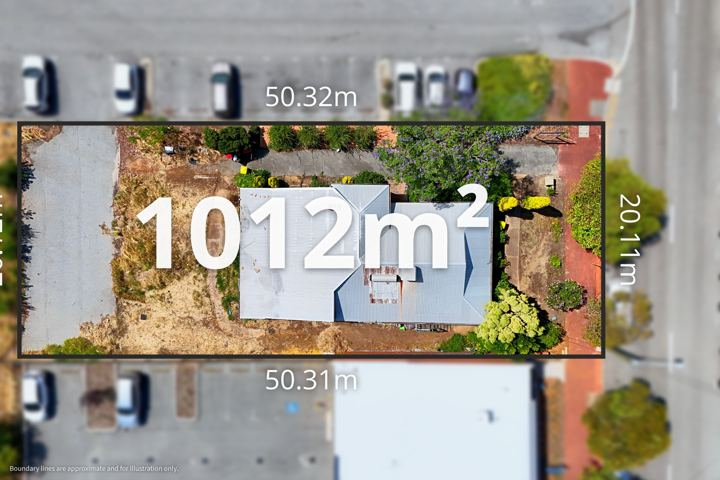
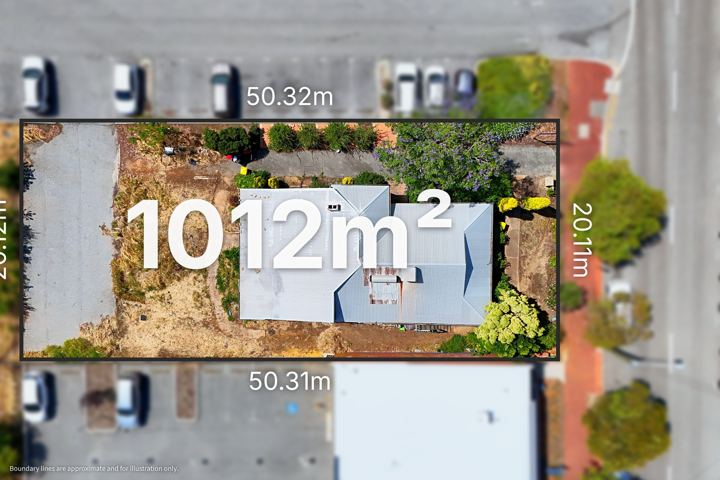
43 William St: boundary redrawn on 0107 (front on footpath edge, rear driveway included)
Claude-Session: https://claude.ai/code/session_01A5qGg2LnJXxgSHoMQFvEEG

Changed region(s): [[0.0, 0.1562, 0.8861, 0.8125], [0.55, 0.1562, 0.5806, 0.1875], [0.0306, 0.8438, 0.0611, 0.875]]

diff --git a/aerials/17-nov-2026/index.html b/aerials/17-nov-2026/index.html
@@ -5,4 +5,4 @@ body{margin:0;background:var(--bg);color:var(--fg);font:15px/1.45 system-ui,-app
 header,section{max-width:1400px;margin:auto;padding:18px 16px}h1{font-size:20px;margin:0}h2{font-size:17px;margin:0}header p,section p{color:var(--mut);margin:4px 0 0}
 .ed{margin-left:10px;color:var(--acc);font-weight:600;text-decoration:none}a{color:var(--acc)}
 .chk{margin-top:10px}.chk summary{cursor:pointer;color:var(--mut);font-weight:600}.chk iframe{width:100%;height:420px;border:0;border-radius:6px;margin-top:6px;background:#111}.g{display:grid;grid-template-columns:repeat(auto-fill,minmax(280px,1fr));gap:8px;margin-top:10px}.g img{width:100%;display:block;border-radius:4px}</style></head>
-<body><header><h1>Drone edits — Tue 17 Nov 2026</h1><p>Tap a photo for full size. <b>Edit</b> opens the job in the <a href="/pins/">editor</a> with all its pins and settings.</p></header><section><h2>SEND TO EDITOR — no lot boundary (Mac offline, no cadastre/satellite); hazy hills/horizon after sky swap on 0218/0220/0227/0229 (tower ghosting removed); both top-downs over-saturated and the house is off-centre — please re-edit sky/colour · 34 Croyden Rd, Roleystone WA 6111</h2><p>Jayden Cooke · Rodway · 13 photos (top-downs first) <a class="ed" href="/pins/?open=17-nov-2026/34_croyden_rd">Edit</a><a class="ed" href="/lots/?img=/aerials/17-nov-2026/34_croyden_rd/src/DJI_20261117135524_0236_D.jpg&street=Croyden%20Road" target="_blank">Lots</a><a class="ed" href="34_croyden_rd/check.html" target="_blank">Check map</a></p><div class="g"><a href="34_croyden_rd/DJI_20261117135524_0236_D.jpg?v=1794930465" target="_blank"><img loading="lazy" src="34_croyden_rd/t/DJI_20261117135524_0236_D.jpg?v=1794930465" alt=""></a><a href="34_croyden_rd/DJI_20261117135538_0237_D_r180_sq.jpg?v=1794930465" target="_blank"><img loading="lazy" src="34_croyden_rd/t/DJI_20261117135538_0237_D_r180_sq.jpg?v=1794930465" alt=""></a><a href="34_croyden_rd/DJI_20261117134904_0218_D.jpg?v=1794930465" target="_blank"><img loading="lazy" src="34_croyden_rd/t/DJI_20261117134904_0218_D.jpg?v=1794930465" alt=""></a><a href="34_croyden_rd/DJI_20261117135013_0220_D.jpg?v=1794930465" target="_blank"><img loading="lazy" src="34_croyden_rd/t/DJI_20261117135013_0220_D.jpg?v=1794930465" alt=""></a><a href="34_croyden_rd/DJI_20261117135036_0221_D.jpg?v=1794930465" target="_blank"><img loading="lazy" src="34_croyden_rd/t/DJI_20261117135036_0221_D.jpg?v=1794930465" alt=""></a><a href="34_croyden_rd/DJI_20261117135113_0223_D.jpg?v=1794930465" target="_blank"><img loading="lazy" src="34_croyden_rd/t/DJI_20261117135113_0223_D.jpg?v=1794930465" alt=""></a><a href="34_croyden_rd/DJI_20261117135138_0224_D.jpg?v=1794930465" target="_blank"><img loading="lazy" src="34_croyden_rd/t/DJI_20261117135138_0224_D.jpg?v=1794930465" alt=""></a><a href="34_croyden_rd/DJI_20261117135159_0225_D.jpg?v=1794930465" target="_blank"><img loading="lazy" src="34_croyden_rd/t/DJI_20261117135159_0225_D.jpg?v=1794930465" alt=""></a><a href="34_croyden_rd/DJI_20261117135227_0227_D.jpg?v=1794930465" target="_blank"><img loading="lazy" src="34_croyden_rd/t/DJI_20261117135227_0227_D.jpg?v=1794930465" alt=""></a><a href="34_croyden_rd/DJI_20261117135326_0229_D.jpg?v=1794930465" target="_blank"><img loading="lazy" src="34_croyden_rd/t/DJI_20261117135326_0229_D.jpg?v=1794930465" alt=""></a><a href="34_croyden_rd/DJI_20261117143956_0239_D.jpg?v=1794930465" target="_blank"><img loading="lazy" src="34_croyden_rd/t/DJI_20261117143956_0239_D.jpg?v=1794930465" alt=""></a><a href="34_croyden_rd/DJI_20261117144039_0240_D.jpg?v=1794930465" target="_blank"><img loading="lazy" src="34_croyden_rd/t/DJI_20261117144039_0240_D.jpg?v=1794930465" alt=""></a><a href="34_croyden_rd/DJI_20261117144046_0241_D.jpg?v=1794930465" target="_blank"><img loading="lazy" src="34_croyden_rd/t/DJI_20261117144046_0241_D.jpg?v=1794930465" alt=""></a></div><details class="chk" open><summary>Quick check — boundary + 9 pinned places</summary><iframe loading="lazy" src="34_croyden_rd/check.html?v=1794930467" title="Boundary and places check"></iframe></details></section><section><h2>SEND TO EDITOR — pale hard-edged band of old sky above the horizon on 0258/0259/0260 after the sky swap; no lot boundary (grouped dwelling, Mac offline) — please re-do the sky on those frames · 374 Light St, Dianella WA 6059</h2><p>Lucy Deng · Ausvision Realty · 11 photos (top-downs first) <a class="ed" href="/pins/?open=17-nov-2026/374_light_st">Edit</a><a class="ed" href="/lots/?img=/aerials/17-nov-2026/374_light_st/src/DJI_20261117160634_0269_D_r180.jpg&street=Light%20Street" target="_blank">Lots</a><a class="ed" href="374_light_st/check.html" target="_blank">Check map</a></p><div class="g"><a href="374_light_st/DJI_20261117160634_0269_D_r180.jpg?v=1794930470" target="_blank"><img loading="lazy" src="374_light_st/t/DJI_20261117160634_0269_D_r180.jpg?v=1794930470" alt=""></a><a href="374_light_st/DJI_20261117160607_0267_D_sq.jpg?v=1794930470" target="_blank"><img loading="lazy" src="374_light_st/t/DJI_20261117160607_0267_D_sq.jpg?v=1794930470" alt=""></a><a href="374_light_st/DJI_20261117160019_0257_D.jpg?v=1794930470" target="_blank"><img loading="lazy" src="374_light_st/t/DJI_20261117160019_0257_D.jpg?v=1794930470" alt=""></a><a href="374_light_st/DJI_20261117160038_0258_D.jpg?v=1794930470" target="_blank"><img loading="lazy" src="374_light_st/t/DJI_20261117160038_0258_D.jpg?v=1794930470" alt=""></a><a href="374_light_st/DJI_20261117160056_0259_D.jpg?v=1794930470" target="_blank"><img loading="lazy" src="374_light_st/t/DJI_20261117160056_0259_D.jpg?v=1794930470" alt=""></a><a href="374_light_st/DJI_20261117160119_0260_D.jpg?v=1794930470" target="_blank"><img loading="lazy" src="374_light_st/t/DJI_20261117160119_0260_D.jpg?v=1794930470" alt=""></a><a href="374_light_st/DJI_20261117160147_0261_D.jpg?v=1794930470" target="_blank"><img loading="lazy" src="374_light_st/t/DJI_20261117160147_0261_D.jpg?v=1794930470" alt=""></a><a href="374_light_st/DJI_20261117160253_0263_D.jpg?v=1794930470" target="_blank"><img loading="lazy" src="374_light_st/t/DJI_20261117160253_0263_D.jpg?v=1794930470" alt=""></a><a href="374_light_st/DJI_20261117160402_0264_D.jpg?v=1794930470" target="_blank"><img loading="lazy" src="374_light_st/t/DJI_20261117160402_0264_D.jpg?v=1794930470" alt=""></a><a href="374_light_st/DJI_20261117160425_0265_D.jpg?v=1794930470" target="_blank"><img loading="lazy" src="374_light_st/t/DJI_20261117160425_0265_D.jpg?v=1794930470" alt=""></a><a href="374_light_st/DJI_20261117160443_0266_D.jpg?v=1794930470" target="_blank"><img loading="lazy" src="374_light_st/t/DJI_20261117160443_0266_D.jpg?v=1794930470" alt=""></a></div><details class="chk" open><summary>Quick check — boundary + 17 pinned places</summary><iframe loading="lazy" src="374_light_st/check.html?v=1794930472" title="Boundary and places check"></iframe></details></section><section><h2>SEND TO EDITOR — white halo/glow strip along the ridge line on 0114/0115 (faint haze 0108/0111/0112) after the sky swap; house is out of shot on 0110 and 0114 (shooter framing) — please re-do the sky and check those frames · 43 William St, Armadale WA 6112</h2><p>Jayden Cooke · Rodway · 10 photos (top-downs first) <a class="ed" href="/pins/?open=17-nov-2026/43_william_st">Edit</a><a class="ed" href="/lots/?img=/aerials/17-nov-2026/43_william_st/src/dji_fly_20261117_102652_0102_1794923605590_photo_sq.JPG&street=William%20Street" target="_blank">Lots</a><a class="ed" href="43_william_st/check.html" target="_blank">Check map</a></p><div class="g"><a href="43_william_st/dji_fly_20261117_102652_0102_1794923605590_photo_sq.jpg?v=1794950666" target="_blank"><img loading="lazy" src="43_william_st/t/dji_fly_20261117_102652_0102_1794923605590_photo_sq.jpg?v=1794950666" alt=""></a><a href="43_william_st/dji_fly_20261117_102734_0107_1794923598787_photo_sq.jpg?v=1794950666" target="_blank"><img loading="lazy" src="43_william_st/t/dji_fly_20261117_102734_0107_1794923598787_photo_sq.jpg?v=1794950666" alt=""></a><a href="43_william_st/dji_fly_20261117_102804_0108_1794923597373_photo.jpg?v=1794950666" target="_blank"><img loading="lazy" src="43_william_st/t/dji_fly_20261117_102804_0108_1794923597373_photo.jpg?v=1794950666" alt=""></a><a href="43_william_st/dji_fly_20261117_102836_0109_1794923595154_photo.jpg?v=1794950666" target="_blank"><img loading="lazy" src="43_william_st/t/dji_fly_20261117_102836_0109_1794923595154_photo.jpg?v=1794950666" alt=""></a><a href="43_william_st/dji_fly_20261117_102942_0110_1794923593774_photo.jpg?v=1794950666" target="_blank"><img loading="lazy" src="43_william_st/t/dji_fly_20261117_102942_0110_1794923593774_photo.jpg?v=1794950666" alt=""></a><a href="43_william_st/dji_fly_20261117_103016_0111_1794923592394_photo.jpg?v=1794950666" target="_blank"><img loading="lazy" src="43_william_st/t/dji_fly_20261117_103016_0111_1794923592394_photo.jpg?v=1794950666" alt=""></a><a href="43_william_st/dji_fly_20261117_103050_0112_1794923591070_photo.jpg?v=1794950666" target="_blank"><img loading="lazy" src="43_william_st/t/dji_fly_20261117_103050_0112_1794923591070_photo.jpg?v=1794950666" alt=""></a><a href="43_william_st/dji_fly_20261117_103102_0113_1794923589788_photo.jpg?v=1794950666" target="_blank"><img loading="lazy" src="43_william_st/t/dji_fly_20261117_103102_0113_1794923589788_photo.jpg?v=1794950666" alt=""></a><a href="43_william_st/dji_fly_20261117_103116_0114_1794923588534_photo.jpg?v=1794950666" target="_blank"><img loading="lazy" src="43_william_st/t/dji_fly_20261117_103116_0114_1794923588534_photo.jpg?v=1794950666" alt=""></a><a href="43_william_st/dji_fly_20261117_103130_0115_1794923587236_photo.jpg?v=1794950666" target="_blank"><img loading="lazy" src="43_william_st/t/dji_fly_20261117_103130_0115_1794923587236_photo.jpg?v=1794950666" alt=""></a></div><details class="chk" open><summary>Quick check — boundary + 12 pinned places</summary><iframe loading="lazy" src="43_william_st/check.html?v=1794950668" title="Boundary and places check"></iframe></details></section><section><h2>SEND TO EDITOR — sky swap left ghost blocks of old sky above the horizon on 0125/0126/0127 and halos/ghosting around the CBD towers on 0118/0119/0128, grey haze over the hills on 0123/0124 — please replace the sky on every oblique · 28/76 Newcastle St, West Perth WA 6005</h2><p>Shane Garrett · Belle Property · 13 photos (top-downs first) <a class="ed" href="/pins/?open=17-nov-2026/28_76_newcastle_st">Edit</a><a class="ed" href="/lots/?img=/aerials/17-nov-2026/28_76_newcastle_st/src/dji_fly_20261117_123400_0117_1794923584798_photo_r180_sq.JPG&street=Newcastle%20Street" target="_blank">Lots</a><a class="ed" href="28_76_newcastle_st/check.html" target="_blank">Check map</a></p><div class="g"><a href="28_76_newcastle_st/dji_fly_20261117_123400_0117_1794923584798_photo_r180_sq.jpg?v=1794950677" target="_blank"><img loading="lazy" src="28_76_newcastle_st/t/dji_fly_20261117_123400_0117_1794923584798_photo_r180_sq.jpg?v=1794950677" alt=""></a><a href="28_76_newcastle_st/dji_fly_20261117_123356_0116_1794923585995_photo.jpg?v=1794950678" target="_blank"><img loading="lazy" src="28_76_newcastle_st/t/dji_fly_20261117_123356_0116_1794923585995_photo.jpg?v=1794950678" alt=""></a><a href="28_76_newcastle_st/dji_fly_20261117_123438_0118_1794923583683_photo.jpg?v=1794950678" target="_blank"><img loading="lazy" src="28_76_newcastle_st/t/dji_fly_20261117_123438_0118_1794923583683_photo.jpg?v=1794950678" alt=""></a><a href="28_76_newcastle_st/dji_fly_20261117_123500_0119_1794923582541_photo.jpg?v=1794950678" target="_blank"><img loading="lazy" src="28_76_newcastle_st/t/dji_fly_20261117_123500_0119_1794923582541_photo.jpg?v=1794950678" alt=""></a><a href="28_76_newcastle_st/dji_fly_20261117_123532_0120_1794923581349_photo.jpg?v=1794950678" target="_blank"><img loading="lazy" src="28_76_newcastle_st/t/dji_fly_20261117_123532_0120_1794923581349_photo.jpg?v=1794950678" alt=""></a><a href="28_76_newcastle_st/dji_fly_20261117_123548_0121_1794923580121_photo.jpg?v=1794950678" target="_blank"><img loading="lazy" src="28_76_newcastle_st/t/dji_fly_20261117_123548_0121_1794923580121_photo.jpg?v=1794950678" alt=""></a><a href="28_76_newcastle_st/dji_fly_20261117_123610_0122_1794923578874_photo.jpg?v=1794950678" target="_blank"><img loading="lazy" src="28_76_newcastle_st/t/dji_fly_20261117_123610_0122_1794923578874_photo.jpg?v=1794950678" alt=""></a><a href="28_76_newcastle_st/dji_fly_20261117_123630_0123_1794923577572_photo.jpg?v=1794950678" target="_blank"><img loading="lazy" src="28_76_newcastle_st/t/dji_fly_20261117_123630_0123_1794923577572_photo.jpg?v=1794950678" alt=""></a><a href="28_76_newcastle_st/dji_fly_20261117_123646_0124_1794923576272_photo.jpg?v=1794950678" target="_blank"><img loading="lazy" src="28_76_newcastle_st/t/dji_fly_20261117_123646_0124_1794923576272_photo.jpg?v=1794950678" alt=""></a><a href="28_76_newcastle_st/dji_fly_20261117_123702_0125_1794923575020_photo.jpg?v=1794950678" target="_blank"><img loading="lazy" src="28_76_newcastle_st/t/dji_fly_20261117_123702_0125_1794923575020_photo.jpg?v=1794950678" alt=""></a><a href="28_76_newcastle_st/dji_fly_20261117_123724_0126_1794923573753_photo.jpg?v=1794950678" target="_blank"><img loading="lazy" src="28_76_newcastle_st/t/dji_fly_20261117_123724_0126_1794923573753_photo.jpg?v=1794950678" alt=""></a><a href="28_76_newcastle_st/dji_fly_20261117_123754_0127_1794923572402_photo.jpg?v=1794950678" target="_blank"><img loading="lazy" src="28_76_newcastle_st/t/dji_fly_20261117_123754_0127_1794923572402_photo.jpg?v=1794950678" alt=""></a><a href="28_76_newcastle_st/dji_fly_20261117_123806_0128_1794923571185_photo.jpg?v=1794950678" target="_blank"><img loading="lazy" src="28_76_newcastle_st/t/dji_fly_20261117_123806_0128_1794923571185_photo.jpg?v=1794950678" alt=""></a></div><details class="chk" open><summary>Quick check — boundary + 8 pinned places</summary><iframe loading="lazy" src="28_76_newcastle_st/check.html?v=1794950681" title="Boundary and places check"></iframe></details></section><section><h2>SEND TO EDITOR — CBD tower tops ghosted after the sky swap on 0135/0136, faint halo 0131 and haze 0133/0134 — please re-do the sky on the obliques · 79/1178 Hay St, West Perth WA 6005</h2><p>Megan Topham · Belle Property · 12 photos (top-downs first) <a class="ed" href="/pins/?open=17-nov-2026/79_1178_hay_st">Edit</a><a class="ed" href="/lots/?img=/aerials/17-nov-2026/79_1178_hay_st/src/dji_fly_20261117_160212_0129_1794923569992_photo_r270.JPG&street=Hay%20Street" target="_blank">Lots</a><a class="ed" href="79_1178_hay_st/check.html" target="_blank">Check map</a></p><div class="g"><a href="79_1178_hay_st/dji_fly_20261117_160212_0129_1794923569992_photo_r270.jpg?v=1794950688" target="_blank"><img loading="lazy" src="79_1178_hay_st/t/dji_fly_20261117_160212_0129_1794923569992_photo_r270.jpg?v=1794950688" alt=""></a><a href="79_1178_hay_st/dji_fly_20261117_160212_0129_1794923569992_photo.jpg?v=1794950688" target="_blank"><img loading="lazy" src="79_1178_hay_st/t/dji_fly_20261117_160212_0129_1794923569992_photo.jpg?v=1794950688" alt=""></a><a href="79_1178_hay_st/dji_fly_20261117_160252_0130_1794923568799_photo.jpg?v=1794950688" target="_blank"><img loading="lazy" src="79_1178_hay_st/t/dji_fly_20261117_160252_0130_1794923568799_photo.jpg?v=1794950688" alt=""></a><a href="79_1178_hay_st/dji_fly_20261117_160320_0131_1794923567548_photo.jpg?v=1794950688" target="_blank"><img loading="lazy" src="79_1178_hay_st/t/dji_fly_20261117_160320_0131_1794923567548_photo.jpg?v=1794950688" alt=""></a><a href="79_1178_hay_st/dji_fly_20261117_160336_0132_1794923565379_photo.jpg?v=1794950688" target="_blank"><img loading="lazy" src="79_1178_hay_st/t/dji_fly_20261117_160336_0132_1794923565379_photo.jpg?v=1794950688" alt=""></a><a href="79_1178_hay_st/dji_fly_20261117_160354_0133_1794923564099_photo.jpg?v=1794950688" target="_blank"><img loading="lazy" src="79_1178_hay_st/t/dji_fly_20261117_160354_0133_1794923564099_photo.jpg?v=1794950688" alt=""></a><a href="79_1178_hay_st/dji_fly_20261117_160406_0134_1794923562823_photo.jpg?v=1794950688" target="_blank"><img loading="lazy" src="79_1178_hay_st/t/dji_fly_20261117_160406_0134_1794923562823_photo.jpg?v=1794950688" alt=""></a><a href="79_1178_hay_st/dji_fly_20261117_160428_0135_1794923561548_photo.jpg?v=1794950688" target="_blank"><img loading="lazy" src="79_1178_hay_st/t/dji_fly_20261117_160428_0135_1794923561548_photo.jpg?v=1794950688" alt=""></a><a href="79_1178_hay_st/dji_fly_20261117_160446_0136_1794923560286_photo.jpg?v=1794950688" target="_blank"><img loading="lazy" src="79_1178_hay_st/t/dji_fly_20261117_160446_0136_1794923560286_photo.jpg?v=1794950688" alt=""></a><a href="79_1178_hay_st/dji_fly_20261117_160512_0137_1794923559042_photo.jpg?v=1794950688" target="_blank"><img loading="lazy" src="79_1178_hay_st/t/dji_fly_20261117_160512_0137_1794923559042_photo.jpg?v=1794950688" alt=""></a><a href="79_1178_hay_st/dji_fly_20261117_160530_0138_1794923557769_photo.jpg?v=1794950688" target="_blank"><img loading="lazy" src="79_1178_hay_st/t/dji_fly_20261117_160530_0138_1794923557769_photo.jpg?v=1794950688" alt=""></a><a href="79_1178_hay_st/dji_fly_20261117_160548_0139_1794923556478_photo.jpg?v=1794950688" target="_blank"><img loading="lazy" src="79_1178_hay_st/t/dji_fly_20261117_160548_0139_1794923556478_photo.jpg?v=1794950688" alt=""></a></div><details class="chk" open><summary>Quick check — boundary + 10 pinned places</summary><iframe loading="lazy" src="79_1178_hay_st/check.html?v=1794950691" title="Boundary and places check"></iframe></details></section><script src="../dl.js"></script></body></html>
+<body><header><h1>Drone edits — Tue 17 Nov 2026</h1><p>Tap a photo for full size. <b>Edit</b> opens the job in the <a href="/pins/">editor</a> with all its pins and settings.</p></header><section><h2>SEND TO EDITOR — no lot boundary (Mac offline, no cadastre/satellite); hazy hills/horizon after sky swap on 0218/0220/0227/0229 (tower ghosting removed); both top-downs over-saturated and the house is off-centre — please re-edit sky/colour · 34 Croyden Rd, Roleystone WA 6111</h2><p>Jayden Cooke · Rodway · 13 photos (top-downs first) <a class="ed" href="/pins/?open=17-nov-2026/34_croyden_rd">Edit</a><a class="ed" href="/lots/?img=/aerials/17-nov-2026/34_croyden_rd/src/DJI_20261117135524_0236_D.jpg&street=Croyden%20Road" target="_blank">Lots</a><a class="ed" href="34_croyden_rd/check.html" target="_blank">Check map</a></p><div class="g"><a href="34_croyden_rd/DJI_20261117135524_0236_D.jpg?v=1794930465" target="_blank"><img loading="lazy" src="34_croyden_rd/t/DJI_20261117135524_0236_D.jpg?v=1794930465" alt=""></a><a href="34_croyden_rd/DJI_20261117135538_0237_D_r180_sq.jpg?v=1794930465" target="_blank"><img loading="lazy" src="34_croyden_rd/t/DJI_20261117135538_0237_D_r180_sq.jpg?v=1794930465" alt=""></a><a href="34_croyden_rd/DJI_20261117134904_0218_D.jpg?v=1794930465" target="_blank"><img loading="lazy" src="34_croyden_rd/t/DJI_20261117134904_0218_D.jpg?v=1794930465" alt=""></a><a href="34_croyden_rd/DJI_20261117135013_0220_D.jpg?v=1794930465" target="_blank"><img loading="lazy" src="34_croyden_rd/t/DJI_20261117135013_0220_D.jpg?v=1794930465" alt=""></a><a href="34_croyden_rd/DJI_20261117135036_0221_D.jpg?v=1794930465" target="_blank"><img loading="lazy" src="34_croyden_rd/t/DJI_20261117135036_0221_D.jpg?v=1794930465" alt=""></a><a href="34_croyden_rd/DJI_20261117135113_0223_D.jpg?v=1794930465" target="_blank"><img loading="lazy" src="34_croyden_rd/t/DJI_20261117135113_0223_D.jpg?v=1794930465" alt=""></a><a href="34_croyden_rd/DJI_20261117135138_0224_D.jpg?v=1794930465" target="_blank"><img loading="lazy" src="34_croyden_rd/t/DJI_20261117135138_0224_D.jpg?v=1794930465" alt=""></a><a href="34_croyden_rd/DJI_20261117135159_0225_D.jpg?v=1794930465" target="_blank"><img loading="lazy" src="34_croyden_rd/t/DJI_20261117135159_0225_D.jpg?v=1794930465" alt=""></a><a href="34_croyden_rd/DJI_20261117135227_0227_D.jpg?v=1794930465" target="_blank"><img loading="lazy" src="34_croyden_rd/t/DJI_20261117135227_0227_D.jpg?v=1794930465" alt=""></a><a href="34_croyden_rd/DJI_20261117135326_0229_D.jpg?v=1794930465" target="_blank"><img loading="lazy" src="34_croyden_rd/t/DJI_20261117135326_0229_D.jpg?v=1794930465" alt=""></a><a href="34_croyden_rd/DJI_20261117143956_0239_D.jpg?v=1794930465" target="_blank"><img loading="lazy" src="34_croyden_rd/t/DJI_20261117143956_0239_D.jpg?v=1794930465" alt=""></a><a href="34_croyden_rd/DJI_20261117144039_0240_D.jpg?v=1794930465" target="_blank"><img loading="lazy" src="34_croyden_rd/t/DJI_20261117144039_0240_D.jpg?v=1794930465" alt=""></a><a href="34_croyden_rd/DJI_20261117144046_0241_D.jpg?v=1794930465" target="_blank"><img loading="lazy" src="34_croyden_rd/t/DJI_20261117144046_0241_D.jpg?v=1794930465" alt=""></a></div><details class="chk" open><summary>Quick check — boundary + 9 pinned places</summary><iframe loading="lazy" src="34_croyden_rd/check.html?v=1794930467" title="Boundary and places check"></iframe></details></section><section><h2>SEND TO EDITOR — pale hard-edged band of old sky above the horizon on 0258/0259/0260 after the sky swap; no lot boundary (grouped dwelling, Mac offline) — please re-do the sky on those frames · 374 Light St, Dianella WA 6059</h2><p>Lucy Deng · Ausvision Realty · 11 photos (top-downs first) <a class="ed" href="/pins/?open=17-nov-2026/374_light_st">Edit</a><a class="ed" href="/lots/?img=/aerials/17-nov-2026/374_light_st/src/DJI_20261117160634_0269_D_r180.jpg&street=Light%20Street" target="_blank">Lots</a><a class="ed" href="374_light_st/check.html" target="_blank">Check map</a></p><div class="g"><a href="374_light_st/DJI_20261117160634_0269_D_r180.jpg?v=1794930470" target="_blank"><img loading="lazy" src="374_light_st/t/DJI_20261117160634_0269_D_r180.jpg?v=1794930470" alt=""></a><a href="374_light_st/DJI_20261117160607_0267_D_sq.jpg?v=1794930470" target="_blank"><img loading="lazy" src="374_light_st/t/DJI_20261117160607_0267_D_sq.jpg?v=1794930470" alt=""></a><a href="374_light_st/DJI_20261117160019_0257_D.jpg?v=1794930470" target="_blank"><img loading="lazy" src="374_light_st/t/DJI_20261117160019_0257_D.jpg?v=1794930470" alt=""></a><a href="374_light_st/DJI_20261117160038_0258_D.jpg?v=1794930470" target="_blank"><img loading="lazy" src="374_light_st/t/DJI_20261117160038_0258_D.jpg?v=1794930470" alt=""></a><a href="374_light_st/DJI_20261117160056_0259_D.jpg?v=1794930470" target="_blank"><img loading="lazy" src="374_light_st/t/DJI_20261117160056_0259_D.jpg?v=1794930470" alt=""></a><a href="374_light_st/DJI_20261117160119_0260_D.jpg?v=1794930470" target="_blank"><img loading="lazy" src="374_light_st/t/DJI_20261117160119_0260_D.jpg?v=1794930470" alt=""></a><a href="374_light_st/DJI_20261117160147_0261_D.jpg?v=1794930470" target="_blank"><img loading="lazy" src="374_light_st/t/DJI_20261117160147_0261_D.jpg?v=1794930470" alt=""></a><a href="374_light_st/DJI_20261117160253_0263_D.jpg?v=1794930470" target="_blank"><img loading="lazy" src="374_light_st/t/DJI_20261117160253_0263_D.jpg?v=1794930470" alt=""></a><a href="374_light_st/DJI_20261117160402_0264_D.jpg?v=1794930470" target="_blank"><img loading="lazy" src="374_light_st/t/DJI_20261117160402_0264_D.jpg?v=1794930470" alt=""></a><a href="374_light_st/DJI_20261117160425_0265_D.jpg?v=1794930470" target="_blank"><img loading="lazy" src="374_light_st/t/DJI_20261117160425_0265_D.jpg?v=1794930470" alt=""></a><a href="374_light_st/DJI_20261117160443_0266_D.jpg?v=1794930470" target="_blank"><img loading="lazy" src="374_light_st/t/DJI_20261117160443_0266_D.jpg?v=1794930470" alt=""></a></div><details class="chk" open><summary>Quick check — boundary + 17 pinned places</summary><iframe loading="lazy" src="374_light_st/check.html?v=1794930472" title="Boundary and places check"></iframe></details></section><section><h2>SEND TO EDITOR — white halo/glow strip along the ridge line on 0114/0115 (faint haze 0108/0111/0112) after the sky swap; house is out of shot on 0110 and 0114 (shooter framing) — please re-do the sky and check those frames · 43 William St, Armadale WA 6112</h2><p>Jayden Cooke · Rodway · 10 photos (top-downs first) <a class="ed" href="/pins/?open=17-nov-2026/43_william_st">Edit</a><a class="ed" href="/lots/?img=/aerials/17-nov-2026/43_william_st/src/dji_fly_20261117_102652_0102_1794923605590_photo_sq.JPG&street=William%20Street" target="_blank">Lots</a><a class="ed" href="43_william_st/check.html" target="_blank">Check map</a></p><div class="g"><a href="43_william_st/dji_fly_20261117_102652_0102_1794923605590_photo_sq.jpg?v=1795000000" target="_blank"><img loading="lazy" src="43_william_st/t/dji_fly_20261117_102652_0102_1794923605590_photo_sq.jpg?v=1795000000" alt=""></a><a href="43_william_st/dji_fly_20261117_102734_0107_1794923598787_photo_sq.jpg?v=1795000000" target="_blank"><img loading="lazy" src="43_william_st/t/dji_fly_20261117_102734_0107_1794923598787_photo_sq.jpg?v=1795000000" alt=""></a><a href="43_william_st/dji_fly_20261117_102804_0108_1794923597373_photo.jpg?v=1795000000" target="_blank"><img loading="lazy" src="43_william_st/t/dji_fly_20261117_102804_0108_1794923597373_photo.jpg?v=1795000000" alt=""></a><a href="43_william_st/dji_fly_20261117_102836_0109_1794923595154_photo.jpg?v=1795000000" target="_blank"><img loading="lazy" src="43_william_st/t/dji_fly_20261117_102836_0109_1794923595154_photo.jpg?v=1795000000" alt=""></a><a href="43_william_st/dji_fly_20261117_102942_0110_1794923593774_photo.jpg?v=1795000000" target="_blank"><img loading="lazy" src="43_william_st/t/dji_fly_20261117_102942_0110_1794923593774_photo.jpg?v=1795000000" alt=""></a><a href="43_william_st/dji_fly_20261117_103016_0111_1794923592394_photo.jpg?v=1795000000" target="_blank"><img loading="lazy" src="43_william_st/t/dji_fly_20261117_103016_0111_1794923592394_photo.jpg?v=1795000000" alt=""></a><a href="43_william_st/dji_fly_20261117_103050_0112_1794923591070_photo.jpg?v=1795000000" target="_blank"><img loading="lazy" src="43_william_st/t/dji_fly_20261117_103050_0112_1794923591070_photo.jpg?v=1795000000" alt=""></a><a href="43_william_st/dji_fly_20261117_103102_0113_1794923589788_photo.jpg?v=1795000000" target="_blank"><img loading="lazy" src="43_william_st/t/dji_fly_20261117_103102_0113_1794923589788_photo.jpg?v=1795000000" alt=""></a><a href="43_william_st/dji_fly_20261117_103116_0114_1794923588534_photo.jpg?v=1795000000" target="_blank"><img loading="lazy" src="43_william_st/t/dji_fly_20261117_103116_0114_1794923588534_photo.jpg?v=1795000000" alt=""></a><a href="43_william_st/dji_fly_20261117_103130_0115_1794923587236_photo.jpg?v=1795000000" target="_blank"><img loading="lazy" src="43_william_st/t/dji_fly_20261117_103130_0115_1794923587236_photo.jpg?v=1795000000" alt=""></a></div><details class="chk" open><summary>Quick check — boundary + 12 pinned places</summary><iframe loading="lazy" src="43_william_st/check.html?v=1794950668" title="Boundary and places check"></iframe></details></section><section><h2>SEND TO EDITOR — sky swap left ghost blocks of old sky above the horizon on 0125/0126/0127 and halos/ghosting around the CBD towers on 0118/0119/0128, grey haze over the hills on 0123/0124 — please replace the sky on every oblique · 28/76 Newcastle St, West Perth WA 6005</h2><p>Shane Garrett · Belle Property · 13 photos (top-downs first) <a class="ed" href="/pins/?open=17-nov-2026/28_76_newcastle_st">Edit</a><a class="ed" href="/lots/?img=/aerials/17-nov-2026/28_76_newcastle_st/src/dji_fly_20261117_123400_0117_1794923584798_photo_r180_sq.JPG&street=Newcastle%20Street" target="_blank">Lots</a><a class="ed" href="28_76_newcastle_st/check.html" target="_blank">Check map</a></p><div class="g"><a href="28_76_newcastle_st/dji_fly_20261117_123400_0117_1794923584798_photo_r180_sq.jpg?v=1794950677" target="_blank"><img loading="lazy" src="28_76_newcastle_st/t/dji_fly_20261117_123400_0117_1794923584798_photo_r180_sq.jpg?v=1794950677" alt=""></a><a href="28_76_newcastle_st/dji_fly_20261117_123356_0116_1794923585995_photo.jpg?v=1794950678" target="_blank"><img loading="lazy" src="28_76_newcastle_st/t/dji_fly_20261117_123356_0116_1794923585995_photo.jpg?v=1794950678" alt=""></a><a href="28_76_newcastle_st/dji_fly_20261117_123438_0118_1794923583683_photo.jpg?v=1794950678" target="_blank"><img loading="lazy" src="28_76_newcastle_st/t/dji_fly_20261117_123438_0118_1794923583683_photo.jpg?v=1794950678" alt=""></a><a href="28_76_newcastle_st/dji_fly_20261117_123500_0119_1794923582541_photo.jpg?v=1794950678" target="_blank"><img loading="lazy" src="28_76_newcastle_st/t/dji_fly_20261117_123500_0119_1794923582541_photo.jpg?v=1794950678" alt=""></a><a href="28_76_newcastle_st/dji_fly_20261117_123532_0120_1794923581349_photo.jpg?v=1794950678" target="_blank"><img loading="lazy" src="28_76_newcastle_st/t/dji_fly_20261117_123532_0120_1794923581349_photo.jpg?v=1794950678" alt=""></a><a href="28_76_newcastle_st/dji_fly_20261117_123548_0121_1794923580121_photo.jpg?v=1794950678" target="_blank"><img loading="lazy" src="28_76_newcastle_st/t/dji_fly_20261117_123548_0121_1794923580121_photo.jpg?v=1794950678" alt=""></a><a href="28_76_newcastle_st/dji_fly_20261117_123610_0122_1794923578874_photo.jpg?v=1794950678" target="_blank"><img loading="lazy" src="28_76_newcastle_st/t/dji_fly_20261117_123610_0122_1794923578874_photo.jpg?v=1794950678" alt=""></a><a href="28_76_newcastle_st/dji_fly_20261117_123630_0123_1794923577572_photo.jpg?v=1794950678" target="_blank"><img loading="lazy" src="28_76_newcastle_st/t/dji_fly_20261117_123630_0123_1794923577572_photo.jpg?v=1794950678" alt=""></a><a href="28_76_newcastle_st/dji_fly_20261117_123646_0124_1794923576272_photo.jpg?v=1794950678" target="_blank"><img loading="lazy" src="28_76_newcastle_st/t/dji_fly_20261117_123646_0124_1794923576272_photo.jpg?v=1794950678" alt=""></a><a href="28_76_newcastle_st/dji_fly_20261117_123702_0125_1794923575020_photo.jpg?v=1794950678" target="_blank"><img loading="lazy" src="28_76_newcastle_st/t/dji_fly_20261117_123702_0125_1794923575020_photo.jpg?v=1794950678" alt=""></a><a href="28_76_newcastle_st/dji_fly_20261117_123724_0126_1794923573753_photo.jpg?v=1794950678" target="_blank"><img loading="lazy" src="28_76_newcastle_st/t/dji_fly_20261117_123724_0126_1794923573753_photo.jpg?v=1794950678" alt=""></a><a href="28_76_newcastle_st/dji_fly_20261117_123754_0127_1794923572402_photo.jpg?v=1794950678" target="_blank"><img loading="lazy" src="28_76_newcastle_st/t/dji_fly_20261117_123754_0127_1794923572402_photo.jpg?v=1794950678" alt=""></a><a href="28_76_newcastle_st/dji_fly_20261117_123806_0128_1794923571185_photo.jpg?v=1794950678" target="_blank"><img loading="lazy" src="28_76_newcastle_st/t/dji_fly_20261117_123806_0128_1794923571185_photo.jpg?v=1794950678" alt=""></a></div><details class="chk" open><summary>Quick check — boundary + 8 pinned places</summary><iframe loading="lazy" src="28_76_newcastle_st/check.html?v=1794950681" title="Boundary and places check"></iframe></details></section><section><h2>SEND TO EDITOR — CBD tower tops ghosted after the sky swap on 0135/0136, faint halo 0131 and haze 0133/0134 — please re-do the sky on the obliques · 79/1178 Hay St, West Perth WA 6005</h2><p>Megan Topham · Belle Property · 12 photos (top-downs first) <a class="ed" href="/pins/?open=17-nov-2026/79_1178_hay_st">Edit</a><a class="ed" href="/lots/?img=/aerials/17-nov-2026/79_1178_hay_st/src/dji_fly_20261117_160212_0129_1794923569992_photo_r270.JPG&street=Hay%20Street" target="_blank">Lots</a><a class="ed" href="79_1178_hay_st/check.html" target="_blank">Check map</a></p><div class="g"><a href="79_1178_hay_st/dji_fly_20261117_160212_0129_1794923569992_photo_r270.jpg?v=1794950688" target="_blank"><img loading="lazy" src="79_1178_hay_st/t/dji_fly_20261117_160212_0129_1794923569992_photo_r270.jpg?v=1794950688" alt=""></a><a href="79_1178_hay_st/dji_fly_20261117_160212_0129_1794923569992_photo.jpg?v=1794950688" target="_blank"><img loading="lazy" src="79_1178_hay_st/t/dji_fly_20261117_160212_0129_1794923569992_photo.jpg?v=1794950688" alt=""></a><a href="79_1178_hay_st/dji_fly_20261117_160252_0130_1794923568799_photo.jpg?v=1794950688" target="_blank"><img loading="lazy" src="79_1178_hay_st/t/dji_fly_20261117_160252_0130_1794923568799_photo.jpg?v=1794950688" alt=""></a><a href="79_1178_hay_st/dji_fly_20261117_160320_0131_1794923567548_photo.jpg?v=1794950688" target="_blank"><img loading="lazy" src="79_1178_hay_st/t/dji_fly_20261117_160320_0131_1794923567548_photo.jpg?v=1794950688" alt=""></a><a href="79_1178_hay_st/dji_fly_20261117_160336_0132_1794923565379_photo.jpg?v=1794950688" target="_blank"><img loading="lazy" src="79_1178_hay_st/t/dji_fly_20261117_160336_0132_1794923565379_photo.jpg?v=1794950688" alt=""></a><a href="79_1178_hay_st/dji_fly_20261117_160354_0133_1794923564099_photo.jpg?v=1794950688" target="_blank"><img loading="lazy" src="79_1178_hay_st/t/dji_fly_20261117_160354_0133_1794923564099_photo.jpg?v=1794950688" alt=""></a><a href="79_1178_hay_st/dji_fly_20261117_160406_0134_1794923562823_photo.jpg?v=1794950688" target="_blank"><img loading="lazy" src="79_1178_hay_st/t/dji_fly_20261117_160406_0134_1794923562823_photo.jpg?v=1794950688" alt=""></a><a href="79_1178_hay_st/dji_fly_20261117_160428_0135_1794923561548_photo.jpg?v=1794950688" target="_blank"><img loading="lazy" src="79_1178_hay_st/t/dji_fly_20261117_160428_0135_1794923561548_photo.jpg?v=1794950688" alt=""></a><a href="79_1178_hay_st/dji_fly_20261117_160446_0136_1794923560286_photo.jpg?v=1794950688" target="_blank"><img loading="lazy" src="79_1178_hay_st/t/dji_fly_20261117_160446_0136_1794923560286_photo.jpg?v=1794950688" alt=""></a><a href="79_1178_hay_st/dji_fly_20261117_160512_0137_1794923559042_photo.jpg?v=1794950688" target="_blank"><img loading="lazy" src="79_1178_hay_st/t/dji_fly_20261117_160512_0137_1794923559042_photo.jpg?v=1794950688" alt=""></a><a href="79_1178_hay_st/dji_fly_20261117_160530_0138_1794923557769_photo.jpg?v=1794950688" target="_blank"><img loading="lazy" src="79_1178_hay_st/t/dji_fly_20261117_160530_0138_1794923557769_photo.jpg?v=1794950688" alt=""></a><a href="79_1178_hay_st/dji_fly_20261117_160548_0139_1794923556478_photo.jpg?v=1794950688" target="_blank"><img loading="lazy" src="79_1178_hay_st/t/dji_fly_20261117_160548_0139_1794923556478_photo.jpg?v=1794950688" alt=""></a></div><details class="chk" open><summary>Quick check — boundary + 10 pinned places</summary><iframe loading="lazy" src="79_1178_hay_st/check.html?v=1794950691" title="Boundary and places check"></iframe></details></section><script src="../dl.js"></script></body></html>
